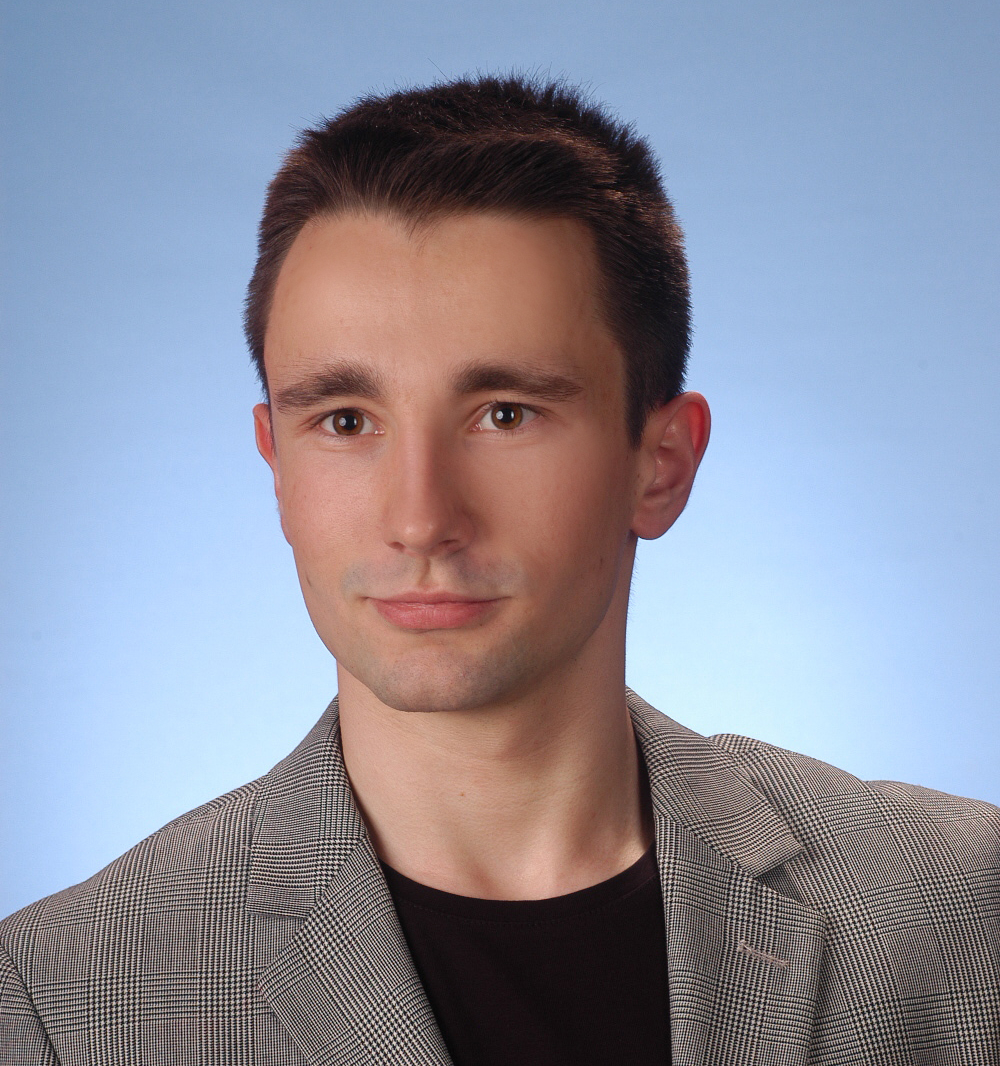
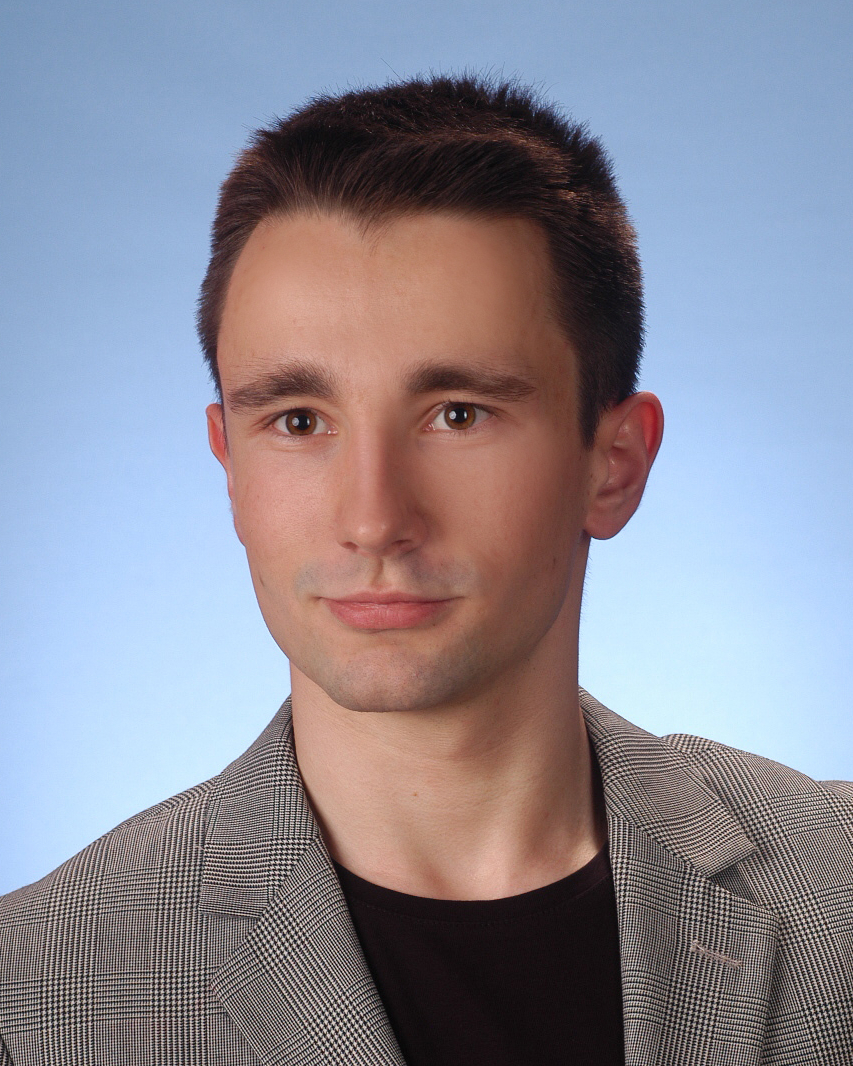
Przycięto zdjęcie do odpowiednich rozmiarów. Poprawiono odstępy w życiorysie.

diff --git a/tex/zyciorys.tex b/tex/zyciorys.tex
@@ -1,18 +1,19 @@
 \newpage\thispagestyle{empty}
-  \begin{tabular}{p{6cm} p{8cm}}
-      \begin{minipage}{7cm}
-      \includegraphics[height=6cm, keepaspectratio]{img/author-photo.jpg}
+  \begin{tabular}{p{4.5cm} p{8cm}}
+      \begin{minipage}{4.5cm}
+           \vspace{-\baselineskip}
+           \includegraphics[height=5cm, width=4cm]{img/author-photo.jpg}
       \end{minipage}
       &
       \begin{minipage}{8cm}
-      Kierunek: \\[\smallskipamount]
-      {\large Informatyka}\\[0.2cm]
-      Specjalność: \\[\smallskipamount]
-      {\large Inżynieria Systemów Informacyjnych}\\[0.2cm]
-      Data urodzenia: \\[\smallskipamount]
-      {\large 13 maja 1991r.}\\[0.2cm]
-      Data rozpoczęcia studiów: \\[\smallskipamount]
-      {\large 1 października 2014r.}
+          Kierunek: \\[\smallskipamount]
+          {\large Informatyka}\\[0.2cm]
+          Specjalność: \\[\smallskipamount]
+          {\large Inżynieria Systemów Informacyjnych}\\[0.2cm]
+          Data urodzenia: \\[\smallskipamount]
+          {\large 13 maja 1991r.}\\[0.2cm]
+          Data rozpoczęcia studiów: \\[\smallskipamount]
+          {\large 1 października 2014r.}
       \end{minipage}
   \end{tabular}
   \vspace*{1\baselineskip}
